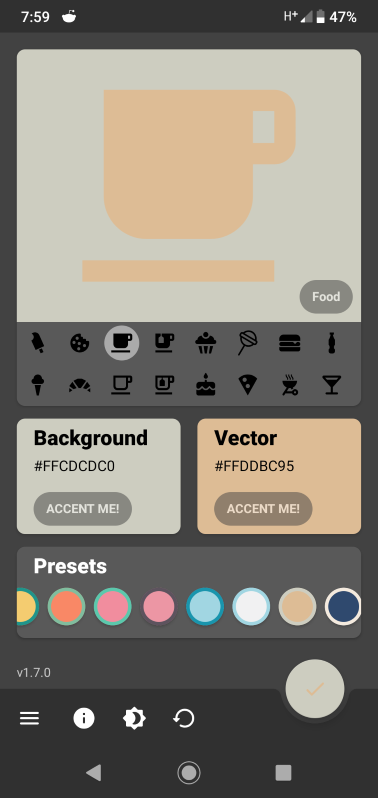
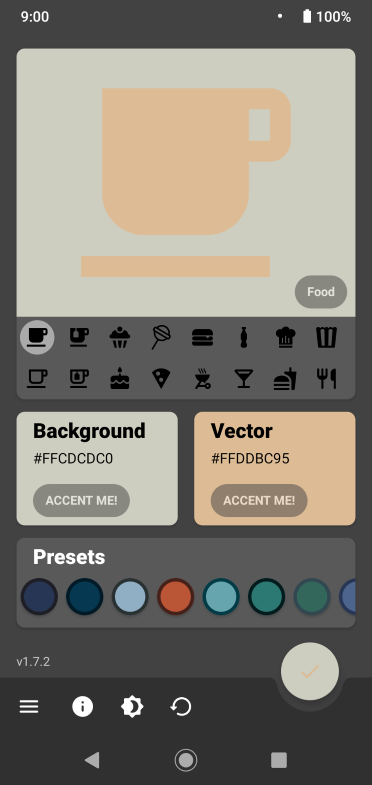
Bump to 1.7.2

diff --git a/README.md b/README.md
@@ -1,13 +1,15 @@
 # <img src ="https://upload.wikimedia.org/wikipedia/commons/b/b5/Kotlin-logo.png" width=24> Vectorify da home!
 
-###### Current version: [(35) 1.7.1](https://github.com/enricocid/VectorifyDaHome/releases/tag/v1.7.1)
+
+[![Privacy policy](https://img.shields.io/static/v1?label=Privacy-policy&message=read&color=ef9a9a)](https://github.com/enricocid/VectorifyDaHome/blob/master/PRIVACY-POLICY.md)
+[![Credits](https://img.shields.io/static/v1?label=Contributors&message=many&color=81d4fa)](https://github.com/enricocid/VectorifyDaHome/blob/master/Credits.md)
+
+[![API](https://img.shields.io/static/v1?label=API&message=21&color=a5d6a7)](https://developer.android.com/about/versions/android-5.0.html)
+[![TAG](https://img.shields.io/static/v1?label=Tag&message=v1.7.2&color=ffe082)](https://github.com/enricocid/Music-Player-GO/releases/tag/v1.7.2)
 
 
-[![API](https://img.shields.io/badge/API-21%2B-blue.svg?style=flat-square)](https://android-arsenal.com/api?level=21)
 
-[PRIVACY POLICY](https://github.com/enricocid/VectorifyDaHome/blob/master/PRIVACY-POLICY.md) - [CREDITS](https://github.com/enricocid/VectorifyDaHome/blob/master/Credits.md)
-
-<img align="right" src="https://raw.githubusercontent.com/enricocid/VectorifyDaHome/master/vdh34.gif" height="500px"/>
+<img align="right" src="https://raw.githubusercontent.com/enricocid/VectorifyDaHome/master/vdh36.gif" height="500px"/>
 
 # Downloads
 
@@ -37,7 +39,7 @@ The app itself implements a dark/light theme switcher!
 
 # License
 
-Copyright (C) 2019 **Enrico D'Ortenzio**
+Copyright (C) 2020 **Enrico D'Ortenzio**
 
 Licensed under the Apache License, Version 2.0 (the "License");
 you may not use this file except in compliance with the License.

diff --git a/Credits.md b/Credits.md
@@ -7,6 +7,8 @@
 
 - [Aidan Follestad](https://github.com/afollestad) for beautiful [Material Dialogs](https://github.com/afollestad/material-dialogs/) library!
 
+- [Sergej Shafarenka](https://github.com/beworker) for the awesome [Edge-to-Edge](https://github.com/beworker/edge-to-edge/) library!
+
 - [Canva](https://www.canva.com/learn/100-color-combinations) for some color presets!
 
 - [TacoTheDank](https://github.com/TacoTheDank) for upgrades to gradle, java 1.8 and fixes on [Music Player GO](https://github.com/enricocid/Music-Player-GO) which I used here!
@@ -16,6 +18,8 @@
 - [Jnss98b](https://github.com/Jnss98b) for helping me with edge-to-edge implementation!
 
 - [Potato Open Sauce Project (POSP)](https://potatoproject.co/) team and [POSP Telegram community](https://t.me/SaucyPotatoesOfficial) for support, inspirations and suggestions! The app itself is based on the original iteration [Potate da home!](https://github.com/enricocid/PotateDaHome) that was built thanks to the team/community feedbacks!
+
+- [Nathan Bonnemains](https://github.com/NathanBnm) for French translations!
 
 - [Stefan Möller](https://github.com/stupo) for his [suggestions](https://github.com/enricocid/VectorifyDaHome/issues/2)!
 
